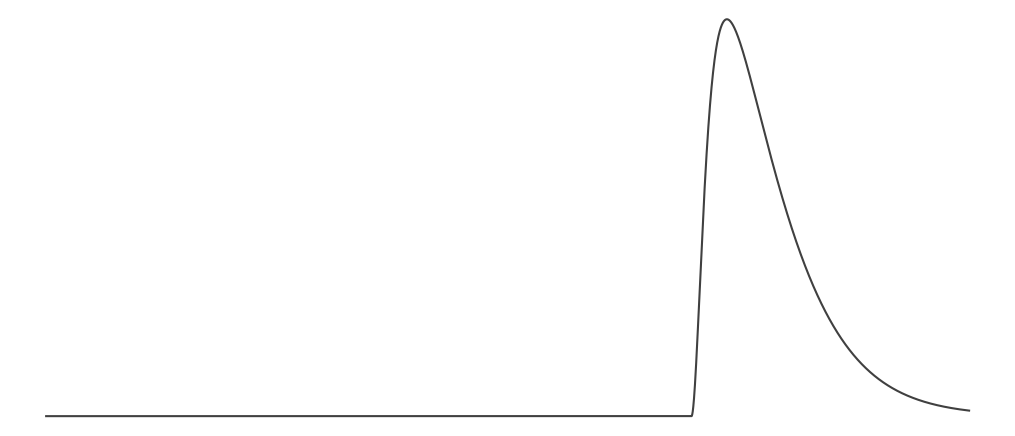
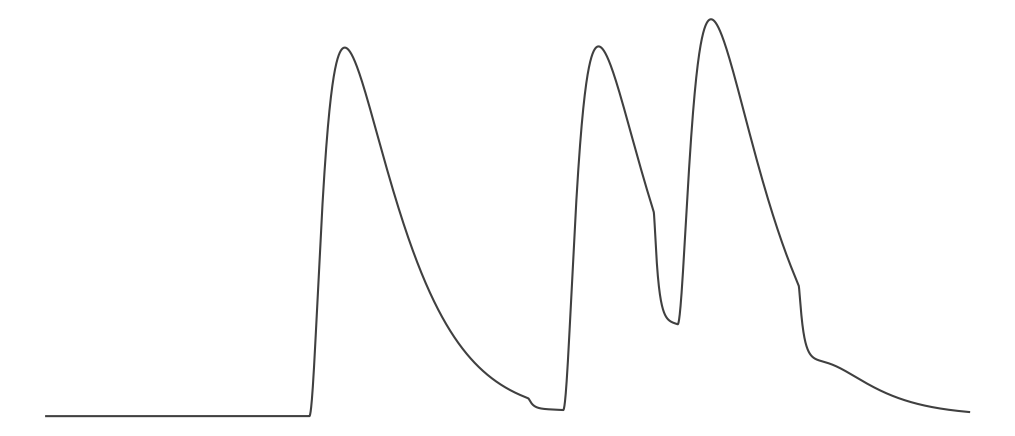
added a new exec moel and a switch

diff --git a/exect_hh.py b/exect_hh.py
@@ -1,0 +1,177 @@
+from brian2 import *
+
+def calculate(timing: list, lengths: list, syn_str: list, esyn_value):
+    
+
+    defaultclock.dt = 0.01*ms
+    morpho = Soma(30*um)
+    morpho.axon = Cylinder(diameter=1*um, length=1000*um, n=200)
+    morpho.dendrite1 = Cylinder(diameter=1*um, length=200*um, n=50)
+    morpho.dendrite2 = Cylinder(diameter=1*um, length=200*um, n=50)
+    morpho.dendrite3 = Cylinder(diameter=1*um, length=200*um, n=50)
+    El = -67*mV
+    ENa = 50*mV
+    EK = -100*mV
+    gl = 0.1*msiemens/cm**2
+    gNa0 = 100*msiemens/cm**2
+    gK = 80*msiemens/cm**2
+    gsynm = 500*msiemens/cm**2
+    beta = 100*Hz
+    Esyn = esyn_value*mV #0
+    eqs = '''
+    Im = gl * (El-v) + gNa * m**3 * h * (ENa-v) + gK * n**4 * (EK-v) + Is : amp/meter**2
+    dm/dt = alpham * (1-m) - betam * m : 1
+    dn/dt = alphan * (1-n) - betan * n : 1
+    dh/dt = alphah * (1-h) - betah * h : 1
+    alphah = 0.128 * exp(-(v + 50.0*mV) / (18.0*mV))/ms :Hz
+    alpham = 0.32/mV * (v + 54*mV) / (1.0 - exp(-(v + 54.0*mV) / (4.0*mV)))/ms:Hz
+    alphan = 0.032/mV * (v + 52*mV) / (1.0 - exp(-(v + 52.0*mV) / (5.0*mV)))/ms:Hz
+    betah  = 4.0 / (1.0 + exp(-(v + 27.0*mV) / (5.0*mV)))/ms:Hz
+    betam  = 0.28/mV * (v + 27.0*mV) / (exp((v + 27.0*mV) / (5.0*mV)) - 1.0)/ms:Hz
+    betan  = 0.5 * exp(-(v + 57.0*mV) / (40.0*mV))/ms:Hz
+    gNa : siemens/meter**2
+    gsyn = gsynm * o : siemens/meter**2
+    do/dt = alpha*(1-o)-beta*o : 1
+    Is = gsyn * (Esyn-v) : amp/meter**2
+    alpha : Hz
+    '''
+
+    neuron = SpatialNeuron(morphology=morpho, model=eqs, method="exponential_euler",
+                        refractory="m > 0.2", threshold="m > 0.4",threshold_location=morpho.axon[1],
+                        Cm=1*uF/cm**2, Ri=31.4*ohm*cm)
+    neuron.v = -74.99891667*mV
+    neuron.m = "alpham / (alpham + betam)"
+    neuron.h = "alphah / (alphah + betah)"
+    neuron.n = "alphan / (alphan + betan)"
+    neuron.gNa = gNa0
+    neuron.o = 0
+    neuron.alpha = 0
+
+    spikes = SpikeMonitor(neuron)
+    st_mon = StateMonitor(neuron.axon, ["n", "m", "h", "v"], record=True)
+    den_mon = StateMonitor(neuron.dendrite1, ["gsyn", "o", 'alpha', 'v', 'Im'], record=True)
+    den2_mon = StateMonitor(neuron.dendrite2, ["gsyn", "o", 'alpha'], record=True)
+    den3_mon = StateMonitor(neuron.dendrite3, ["gsyn", "o", 'alpha'], record=True)
+    SPGG = SpikeGeneratorGroup(1, [0], [timing[0]]*ms)
+    S = Synapses(SPGG, neuron,
+                '''
+                w : Hz
+                ''',
+                on_pre='''
+                alpha += w 
+                '''
+                )
+
+    S.connect(i=0, j=morpho.dendrite1[lengths[0]*um])
+    S.connect(i=0, j=morpho.dendrite3[lengths[0]*um])
+    S.connect(i=0, j=morpho.dendrite2[lengths[0]*um])
+    S.w = syn_str[0]*Hz
+    SPGGoff = SpikeGeneratorGroup(1, [0], [timing[0]+1]*ms)
+    Soff = Synapses(SPGGoff, neuron,
+                '''
+                ''',
+                on_pre='''
+                alpha *= 0 
+                '''
+                )
+
+    Soff.connect(i=0, j=morpho.dendrite1[lengths[0]*um])
+    Soff.connect(i=0, j=morpho.dendrite2[lengths[0]*um])
+    Soff.connect(i=0, j=morpho.dendrite3[lengths[0]*um])
+    SPGG2 = SpikeGeneratorGroup(1, [0], [timing[1]]*ms)
+    S2 = Synapses(SPGG2, neuron,
+                '''
+                w : Hz
+                ''',
+                on_pre='''
+                alpha += w 
+                '''
+                )
+
+    S2.connect(i=0, j=morpho.dendrite1[lengths[1]*um])
+    S2.connect(i=0, j=morpho.dendrite2[lengths[1]*um])
+    S2.connect(i=0, j=morpho.dendrite3[lengths[1]*um])
+    S2.w = syn_str[1]*Hz
+
+
+    SPGGoff2 = SpikeGeneratorGroup(1, [0], [timing[1]+1]*ms)
+    Soff2 = Synapses(SPGGoff2, neuron,
+                '''
+                ''',
+                on_pre='''
+                alpha *= 0 
+                '''
+                )
+
+    Soff2.connect(i=0, j=morpho.dendrite1[lengths[1]*um])
+    Soff2.connect(i=0, j=morpho.dendrite2[lengths[1]*um])
+    Soff2.connect(i=0, j=morpho.dendrite3[lengths[1]*um])
+    SPGG3 = SpikeGeneratorGroup(1, [0], [timing[2]]*ms)
+    S3 = Synapses(SPGG3, neuron,
+                '''
+                w : Hz
+                ''',
+                on_pre='''
+                alpha += w 
+                '''
+                )
+
+    S3.connect(i=0, j=morpho.dendrite1[lengths[2]*um])
+    S3.connect(i=0, j=morpho.dendrite2[lengths[2]*um])
+    S3.connect(i=0, j=morpho.dendrite3[lengths[2]*um])
+    S3.w = syn_str[2]*Hz
+
+
+    SPGGoff3 = SpikeGeneratorGroup(1, [0], [timing[2]+1]*ms)
+    Soff3 = Synapses(SPGGoff3, neuron,
+                '''
+                ''',
+                on_pre='''
+                alpha *= 0 
+                '''
+                )
+
+    Soff3.connect(i=0, j=morpho.dendrite1[lengths[2]*um])
+    Soff3.connect(i=0, j=morpho.dendrite2[lengths[2]*um])
+    Soff3.connect(i=0, j=morpho.dendrite3[lengths[2]*um])
+
+    network = Network()
+    network.add(neuron, den_mon, den2_mon,SPGG, S, SPGG2, S2,SPGGoff, Soff, SPGG3, S3,SPGGoff3, Soff3,SPGGoff2, Soff2, st_mon, spikes)
+
+    network.run(1000*ms)
+
+    x, y = st_mon.t[:]*1000, st_mon.v[0][:]*1000 
+
+    fig, ax = plt.subplots(figsize=(13.13, 5.67)) 
+    ax.plot(x, y, '#d2d2d2')
+    fig_c, ax_c = plt.subplots(figsize=(13.1, 5.67)) 
+    ax_c.plot(x, y, '#404040')
+    print('success')
+    return fig, ax, fig_c, ax_c
+
+
+def save_plot(figure, axes, name='plotting'):
+    axes.set_axis_off()
+    extent = axes.get_window_extent().transformed(figure.dpi_scale_trans.inverted())
+    figure.savefig(f'png/plotting/{name}.png', format='png', bbox_inches=extent, transparent=True) 
+    plt.close(figure)
+
+
+
+if __name__ == "__main__":    
+    #accept not written
+    e_list_read_str, i_list_read_str, threshold_value_str, esyn_value_str, esyninh_value_str, membrpot_value_str, keye, keyi = utils.Encoder.arg_acceptor()
+    
+    e_list_read = utils.Encoder.decoder(e_list_read_str)
+    i_list_read = utils.Encoder.decoder(i_list_read_str)
+
+    threshold_value = utils.Encoder.text_value_decoder(threshold_value_str)
+    esyn_value = utils.Encoder.text_value_decoder(esyn_value_str)
+    esyninh_value = utils.Encoder.text_value_decoder(esyninh_value_str)
+    membrpot_value = utils.Encoder.text_value_decoder(membrpot_value_str)
+
+    plots = calculate(e_list_read, i_list_read, threshold_value, esyn_value, esyninh_value, membrpot_value, keye, keyi)
+    figure, axes = plots[0], plots[1]
+    figure_c, axes_c = plots[2], plots[3]
+    save_plot(figure, axes, 'plotting')
+    save_plot(figure_c, axes_c, 'plotting_c')

diff --git a/run.py b/run.py
@@ -29,6 +29,7 @@ cache_button = pyglet.gui.PushButton(1210, 395, pyglet.resource.image('png/butto
 cache_picture =  pyglet.sprite.Sprite(image.load('png/plotting/empty.png'), -29, 60, batch=undrawable, group=foreground)
 background_picture = pyglet.sprite.Sprite(image.load('png/background_hd.png'), 0, 0, batch=batch_background, group=background)
 clear_button = pyglet.gui.PushButton(1435, 528, pyglet.resource.image('png/buttons/clear_button_pressed.png'), pyglet.resource.image('png/buttons/clear_button_depressed.png'), batch=batch, group=foreground)
+change_model_button = pyglet.gui.PushButton(145, 528, pyglet.resource.image('png/buttons/clear_button_pressed.png'), pyglet.resource.image('png/buttons/clear_button_depressed.png'), batch=batch, group=foreground)
 icon = pyglet.resource.image("png/icon.png")
 window.set_caption("Neuronlab")
 window.set_icon(icon)
@@ -146,6 +147,12 @@ def on_release():
 @cache_clear_button.event
 def on_release():
     cache_picture.batch = undrawable
+@change_model_button.event
+def on_release():
+    if calculator.model_type == "lif":
+        calculator.model_type = "hh"
+    if calculator.model_type == "hh":
+        calculator.model_type = "lif"
 @clear_button.event
 def on_release():
     calculator.e_list =  []
@@ -179,7 +186,12 @@ def count_():
     chosen_receptors_text.batch = undrawable
     current_exc.batch = undrawable
     current_inh.batch = undrawable
-    calculator.proc = Popen(utils.Encoder.popen_generator(calculator.e_list, calculator.i_list, [threshold.value, Esyn.value, Esyninh.value, Membrane_potential.value], window.keye, window.keyi))
+    if calculator.model_type == "lif":
+        calculator.proc = Popen(utils.Encoder.popen_generator(calculator.e_list, calculator.i_list, [threshold.value, Esyn.value, Esyninh.value, Membrane_potential.value], window.keye, window.keyi))
+    if calculator.model_type == "hh":
+        pass
+    #place for new popen
+       # calculator.proc = Popen(utils.Encoder.popen_generator(calculator.e_list, calculator.i_list, [threshold.value, Esyn.value, Esyninh.value, Membrane_potential.value], window.keye, window.keyi))
     pyglet.clock.schedule_interval(update, 1/2) 
     #temporary running block
     off_on([ slider_e_1, slider_e_2, slider_e_3, slider_i_1, slider_i_2, slider_i_3,nmda, ampa, gabaa, gabab, dropdown_list_header, dropdown_list_header_inh, threshold, Membrane_potential, Esyn, Esyninh, clear_button, calc_button, cache_button, cache_clear_button], False)
@@ -193,7 +205,7 @@ def update(dt):
             pyglet.clock.unschedule(update)
     except BaseException:
         pass   
-
+ 
 
 @endofcalcdisp.event
 def drawing_plot(dt, picture):

diff --git a/classes.py b/classes.py
@@ -39,11 +39,12 @@ class MyEventDisp(EventDispatcher):
         pass
 
 class Counter(EventDispatcher):
-    def __init__(self, e_list, i_list) -> None:
+    def __init__(self, e_list, i_list, model="lif") -> None:
         super().__init__()
         self._e_list = e_list
         self._i_list = i_list
         self._proc = None
+        self._model_type = model
     def count_(self):
         pass
     @property
@@ -64,6 +65,12 @@ class Counter(EventDispatcher):
     @proc.setter
     def proc(self,value):
         self._proc = value
+    @property
+    def model_type(self):
+        return self._model_type
+    @proc.setter
+    def model_type(self,value):
+        self._model_type = value
 
 class MySlider(pyglet.gui.Slider):
     def __init__(self, x, y, base, knob, edge=0, batch=None, group=None, runconstant = 9.99, enabled=True):
